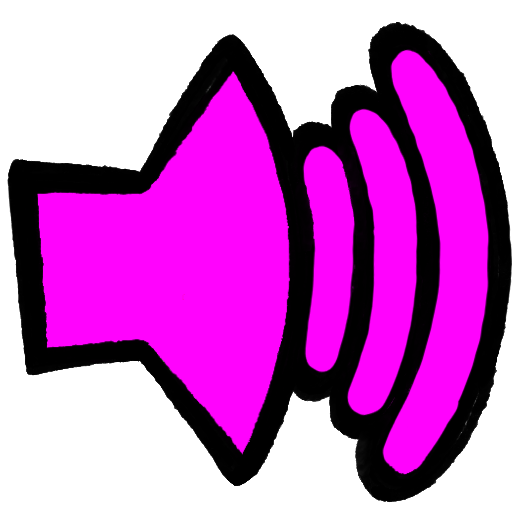
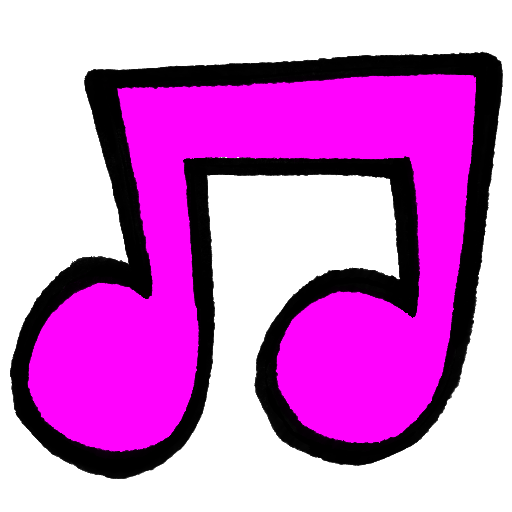
update music volume assets; made fullscreen not visible on mobile

diff --git a/my-site/index.html b/my-site/index.html
@@ -31,6 +31,12 @@
     <link rel="preload" href="/buttons/volume/Mute.png" as="image">
     <link rel="preload" href="/buttons/volume/Mute-hover.png" as="image">
     <link rel="preload" href="/buttons/volume/Mute-select.png" as="image">
+    <link rel="preload" href="/buttons/volume/Music.png" as="image">
+    <link rel="preload" href="/buttons/volume/Music-hover.png" as="image">
+    <link rel="preload" href="/buttons/volume/Music-select.png" as="image">
+    <link rel="preload" href="/buttons/volume/MusicMuted.png" as="image">
+    <link rel="preload" href="/buttons/volume/MusicMuted-hover.png" as="image">
+    <link rel="preload" href="/buttons/volume/MusicMuted-select.png" as="image">
     <link rel="preload" href="/buttons/volume/Thumb.png" as="image">
     <link rel="preload" href="/buttons/volume/Thumb-hover.png" as="image">
     <link rel="preload" href="/buttons/volume/Thumb-select.png" as="image">
@@ -40,6 +46,9 @@
     <link rel="preload" href="/buttons/fullscreen/Fullscreen.png" as="image">
     <link rel="preload" href="/buttons/fullscreen/Fullscreen-hover.png" as="image">
     <link rel="preload" href="/buttons/fullscreen/Fullscreen-select.png" as="image">
+    <link rel="preload" href="/buttons/fullscreen/FullscreenExit.png" as="image">
+    <link rel="preload" href="/buttons/fullscreen/FullscreenExit-hover.png" as="image">
+    <link rel="preload" href="/buttons/fullscreen/FullscreenExit-select.png" as="image">
     <link rel="preload" href="/buttons/x/X.png" as="image">
     <link rel="preload" href="/buttons/x/X-hover.png" as="image">
     <link rel="preload" href="/buttons/x/X-select.png" as="image">

diff --git a/my-site/src/components/NavButton.jsx b/my-site/src/components/NavButton.jsx
@@ -25,7 +25,7 @@ const randomHitSound = () => HIT_SOUNDS[Math.floor(Math.random() * HIT_SOUNDS.le
 
 const prefersReducedMotion = window.matchMedia('(prefers-reduced-motion: reduce)').matches;
 
-export default function NavButton({ image, hoverImage, to, alt, label, textImage, textLabel, onAction, ssRef, ssIndex, clickSound = "/sounds/click.mp3" }) {
+export default function NavButton({ image, hoverImage, to, alt, label, textImage, textLabel, onAction, ssRef, ssIndex, clickSound = "/sounds/misc/Click.mp3" }) {
   const [hovered, setHovered] = useState(false);
   const [draggingState, setDraggingState] = useState(false);
 

diff --git a/my-site/src/components/buttons/FullscreenButton.jsx b/my-site/src/components/buttons/FullscreenButton.jsx
@@ -7,7 +7,10 @@ import { useState, useEffect } from "react";
 import { useAudio } from "../../contexts/AudioContext";
 import "./FullscreenButton.css";
 
+const IS_DESKTOP = window.matchMedia("(hover: hover) and (pointer: fine)").matches;
+
 export default function FullscreenButton() {
+  if (!IS_DESKTOP) return null;
   const [isFullscreen, setIsFullscreen] = useState(!!document.fullscreenElement);
   const [hovered, setHovered]           = useState(false);
   const [pressed, setPressed]           = useState(false);

diff --git a/my-site/src/contexts/AudioContext.jsx b/my-site/src/contexts/AudioContext.jsx
@@ -83,7 +83,7 @@ export function AudioProvider({ children }) {
   // Pre-instantiate Audio objects so playback is immediate (no decode delay).
 
   useEffect(() => {
-    ["/sounds/snap.mp3", "/sounds/click.mp3"].forEach((src) => {
+    ["/sounds/logo/Snap.mp3", "/sounds/misc/Click.mp3"].forEach((src) => {
       const audio = new Audio(src);
       audio.preload = "auto";
       audio.load();

diff --git a/my-site/src/components/buttons/VolumeControl.css b/my-site/src/components/buttons/VolumeControl.css
@@ -119,9 +119,10 @@ body.screensaver-active .volume-container {
 
 /* --- Music Mute Toggle --- */
 .music-toggle {
-  width: clamp(36px, 4vw, 72px);
+  width: clamp(28px, 3vw, 48px);
   height: auto;
-  margin-top: 6px;
+  display: block;
+  margin: 6px auto 0;
 
   cursor: none !important;
   pointer-events: auto;
